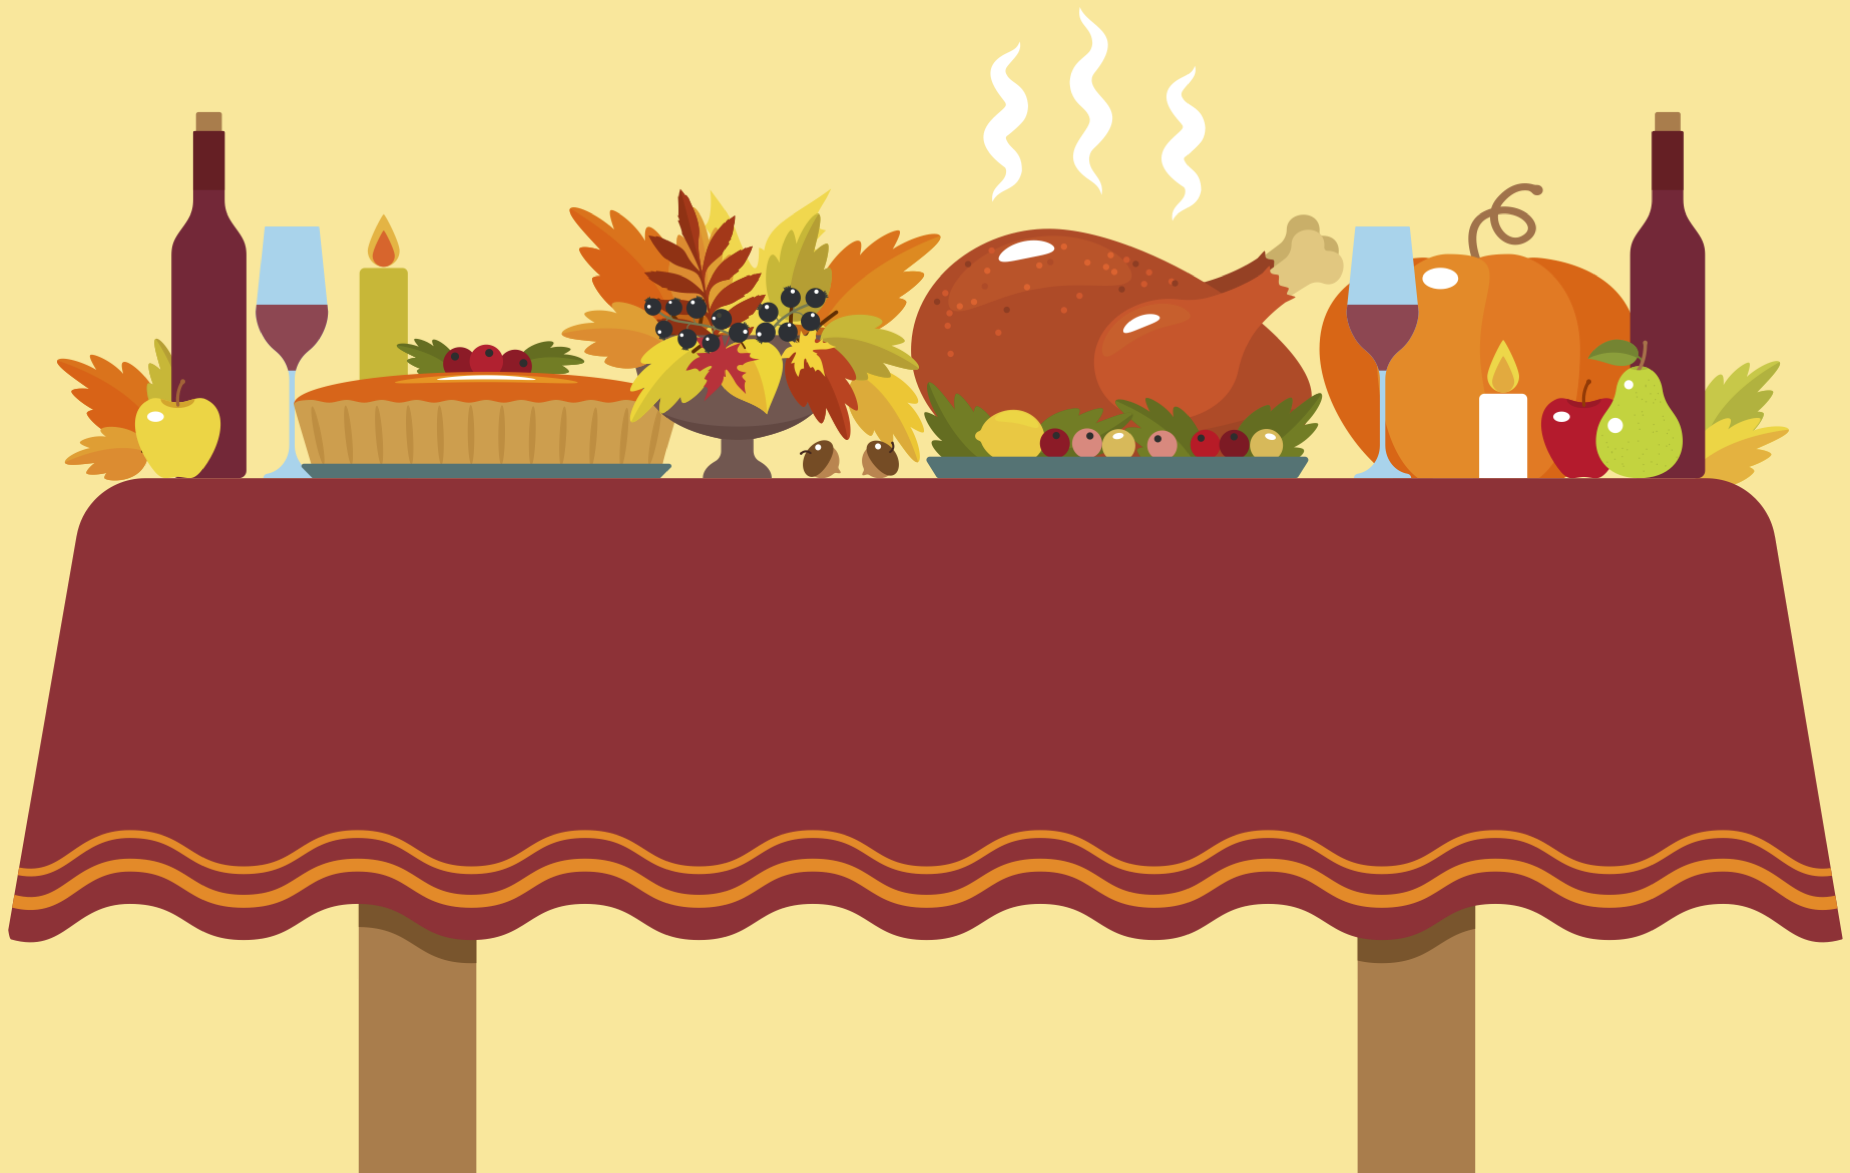
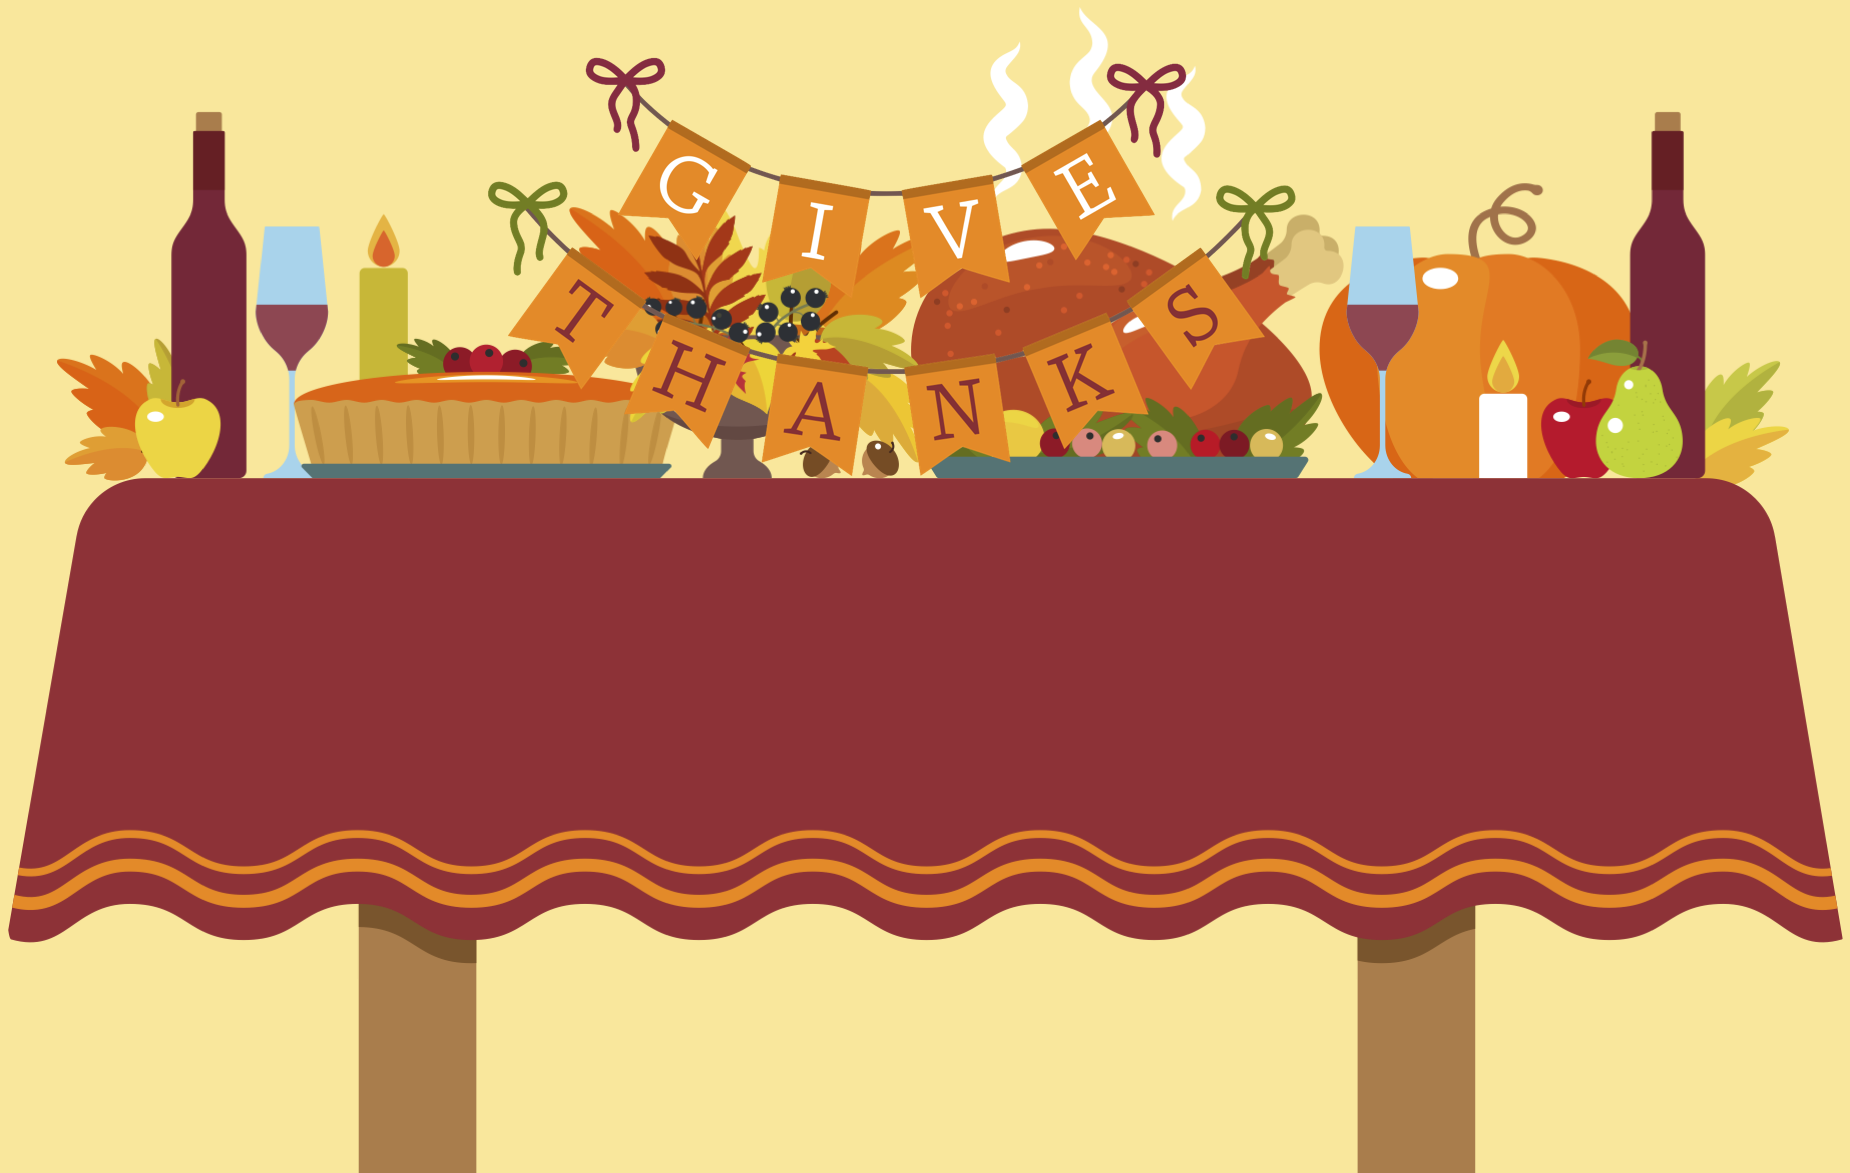
got a fawkes pic, adjusting background color

Changed region(s): [[0.2465, 0.0307, 0.7086, 0.399]]

diff --git a/index.js b/index.js
@@ -10,7 +10,9 @@ const feast = document.querySelector('#feast');
 const human = document.querySelector('#human');
 const win = document.querySelector('#win');
 const gameOver = document.querySelector('#game-over');
+let lettersObj = {};
 let lettersArr;
+// let totalCorrectGuesses;
 let correctGuessesArr = [];
 let incorrectGuessesArr = [];
 let guessesLeft = 7;
@@ -30,22 +32,24 @@ function startGame() {
   setTimeout(() => window.addEventListener('keyup', handleKeyup), 500);
 };
 
-// startGame();
+startGame();
 
 function setWord() {
-  const word = words[11];
-  humanSteps = 30 / word.length;
+  const word = words[12];
   lettersArr = word.replace(/ /g, '').split('');
   word.split(' ').forEach(word => {
     const div = document.createElement('div');
     div.classList.add('word');
     wordContainer.appendChild(div);
     word.split('').forEach(letter => {
+      if (lettersObj[letter]) lettersObj[letter]++;
+      else lettersObj[letter] = 1;
       const p = document.createElement('p');
       p.classList.add(letter, 'letter');
       div.appendChild(p);
     })
   })
+  humanSteps = 22 / (Object.keys(lettersObj).length);
 };
 
 function handleKeyup(event) {
@@ -57,7 +61,7 @@ function handleKeyup(event) {
 function handleIncorrectGuess(key) {
   if (incorrectGuessesArr.includes(key)) return console.log(`You already guessed '${key}'!`);
   guessesLeft--;
-  fawkesPosition += 3;
+  fawkesPosition += 2.75;
   fawkes.style.transform = `translateX(${fawkesPosition}vw)`;
   incorrectGuessesArr.push(key);
   if (guessesLeft == 0) return handleLose();

diff --git a/styles.css b/styles.css
@@ -12,7 +12,7 @@ main {
   justify-content: center;
   align-items: center;
   color: #855425;
-  background-color: #FFE899;
+  background-color: #ffa433;
 }
 
 button {
@@ -46,13 +46,14 @@ button {
   font-size: 7vw;
   text-align: center;
   color: #FFFFFF;
+  text-shadow: 2px 2px 2px #855425;
   border-bottom: 2px solid #855425;
 }
 
 #win, #game-over {
   position: absolute;
   top: 40vh;
-  font-size: 10vw;
+  /* font-size: 10vw; */
 }
 
 .string {
@@ -73,15 +74,17 @@ button {
 }
 
 #fawkes {
-  left: 0vw;
-  width: 12vw;
-  height: 250px;
-  border: 1px solid black;
+  left: .5vw;
+  width: 14vw;
+  height: auto;
+  z-index: 1;
+  /* border: 1px solid black; */
   transform: translateX(0vw);
 }
 
 #feast {
   /* bottom: 0vh; */
+  z-index: 0;
   width: 40vw;
   /* height: 200px; */
   /* border: 1px solid black; */
@@ -95,6 +98,7 @@ button {
   left: 90vw;
   width: 10vw;
   height: 400px;
+  z-index: 1;
   border: 1px solid black;
   transform: translateX(0vw);
 }

diff --git a/index.html b/index.html
@@ -17,8 +17,8 @@
     <div id="word-container"></div>
     <div id="win" class="hidden">You win!</div>
     <div id="game-over" class="hidden">Game over!</div>
-    <div id="fawkes" class="hidden animation">fawkes</div>
-    <img id="feast" class="hidden animation" src="./img/feast-tall.png" alt="">
+    <img id="fawkes" class="hidden animation" src="./img/Fawkes Body.png"></>
+    <img id="feast" class="hidden animation" src="./img/feast-with-flags.png" alt="">
     <div id="human" class="hidden animation">human</div>
   </main>
   <script type="module" src="/index.js"></script>
